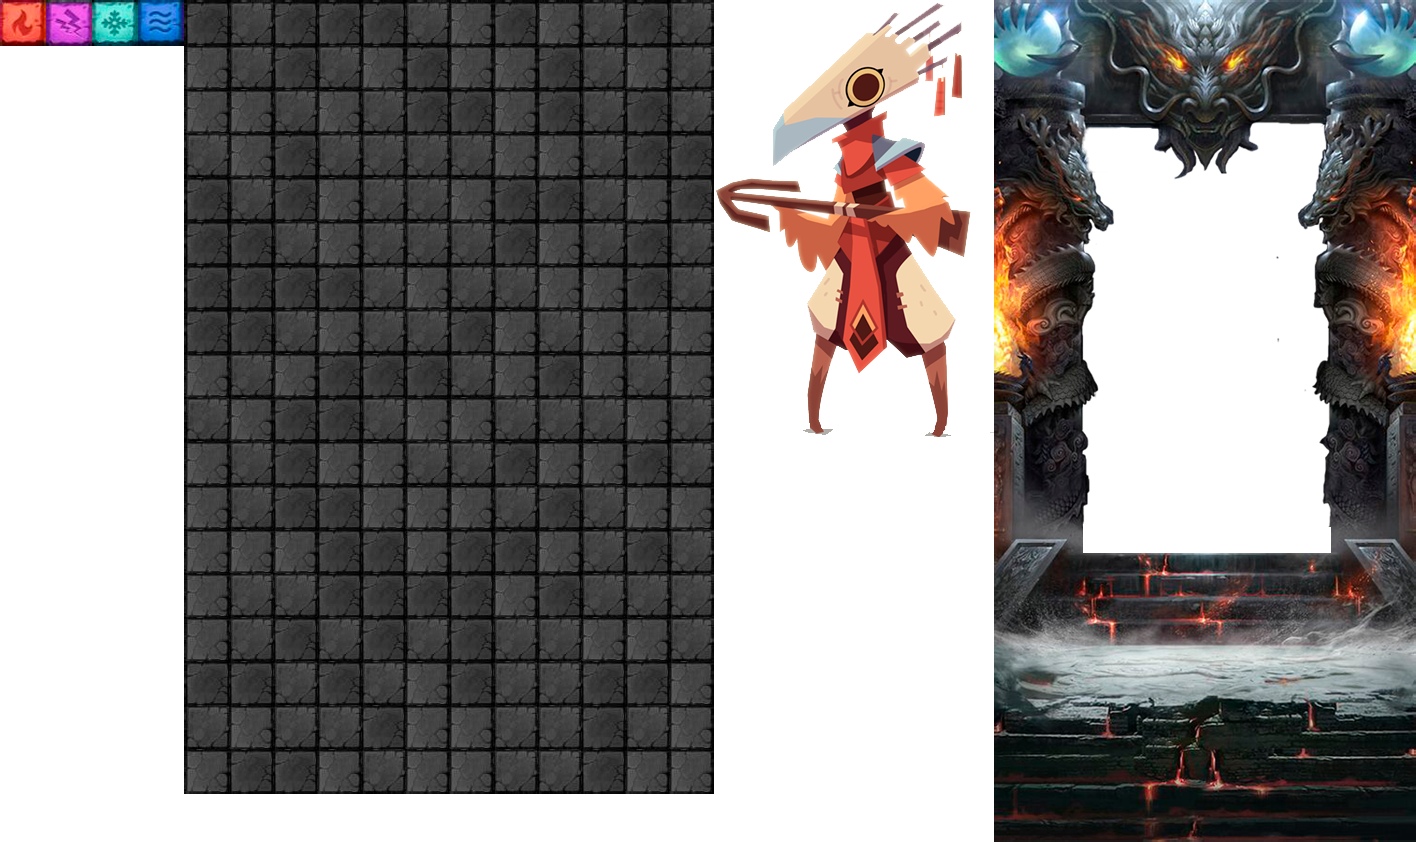
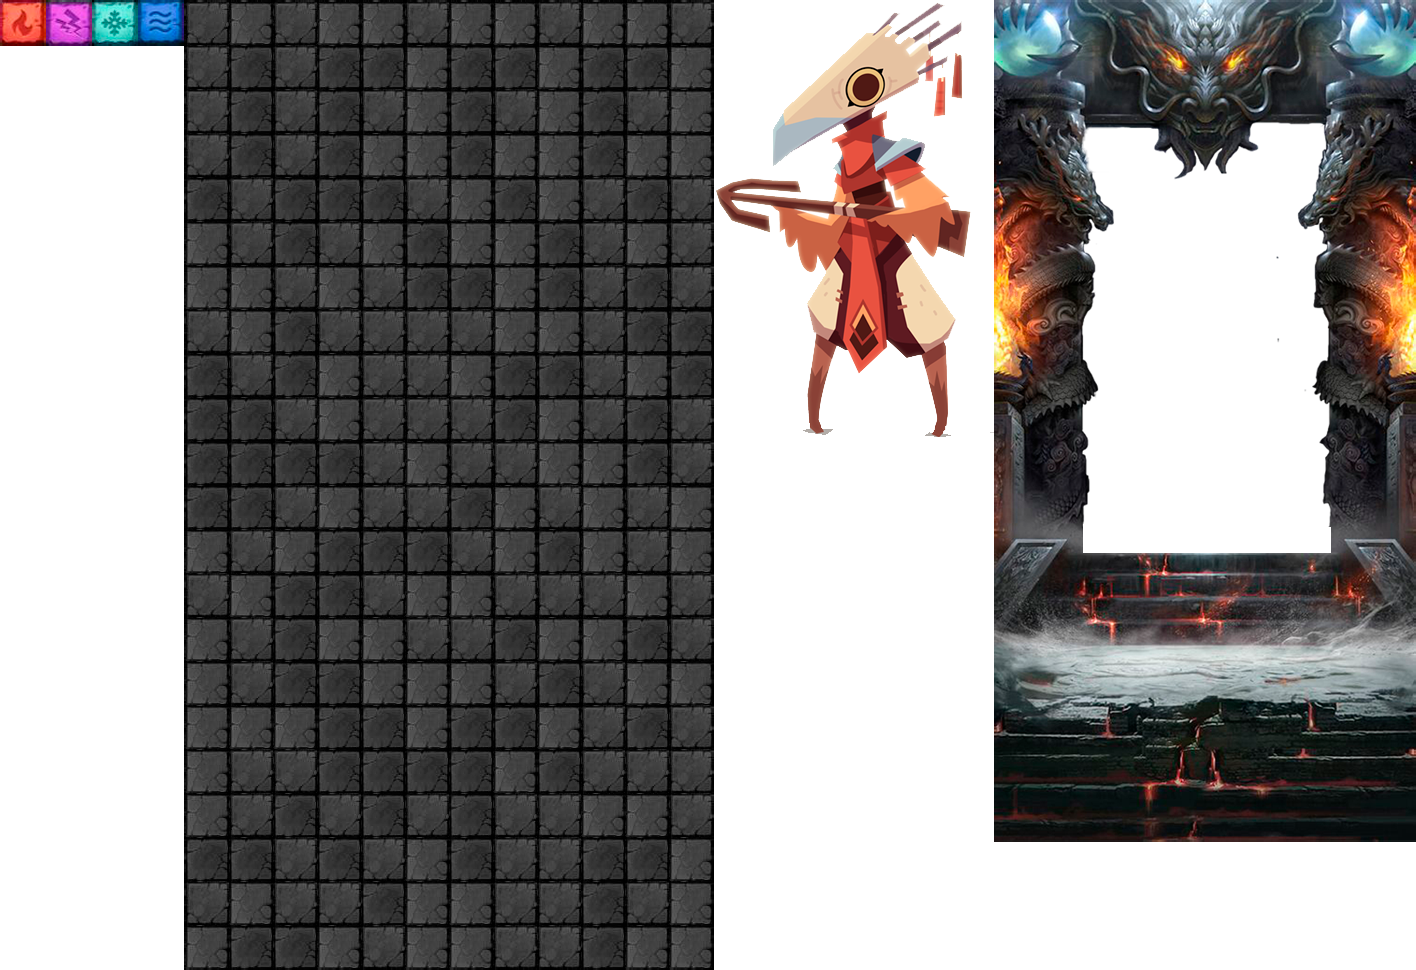
Змінено задній ігровий фон на більший

diff --git a/core/src/com/daleondeveloper/Game/GameWorld.java b/core/src/com/daleondeveloper/Game/GameWorld.java
@@ -101,7 +101,7 @@ public class GameWorld {
         gates.setCenterY(gameCamera.getWorldHeight() / 2 + 3);
 
         gates.setRegionGates();
-        backgroundGameFon = new Background(this,40,140,120,180);
+        backgroundGameFon = new Background(this,40,140,120,220);
         backgroundGameFon.setRegionGameFon();
         if (!DebugConstants.HIDE_BACKGROUND) {
             loadBackground();
